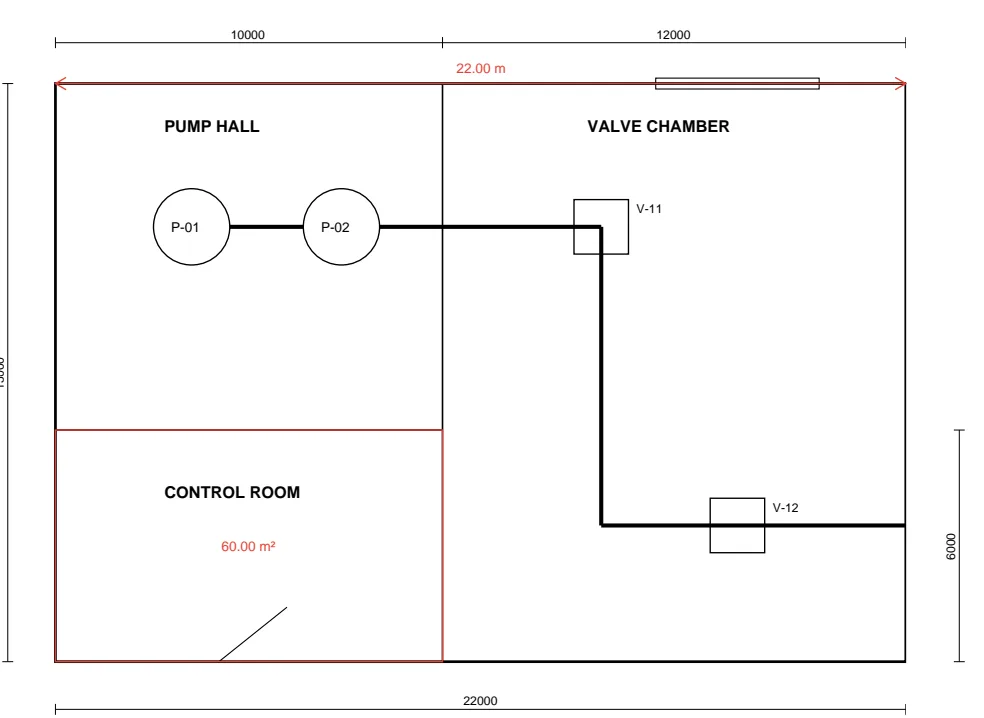
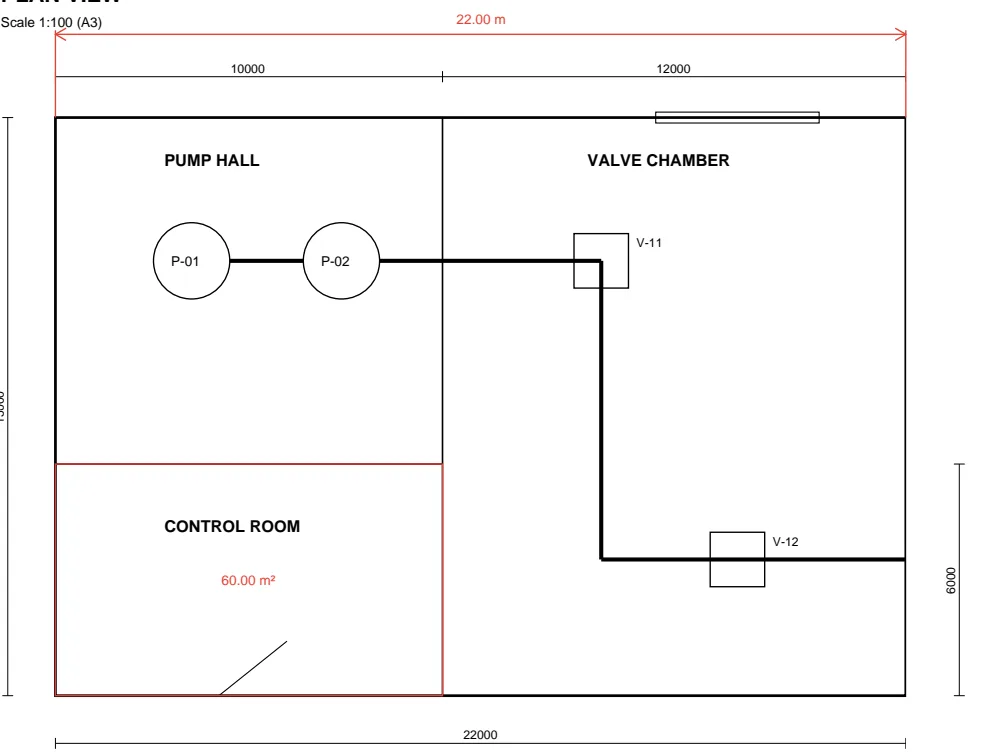
M13-10: Help, pictures, What's new, release notes and owner pack for measuring by clicks (ADR-034 Amendment 3, D-72)
Claude-Session: https://claude.ai/code/session_01JyMu1wAnFExeEa4SG15ywY

diff --git a/e2e/help-shots/shots.spec.ts b/e2e/help-shots/shots.spec.ts
@@ -741,9 +741,66 @@ test('measure-tools-1: the Measure tab', async ({ page }) => {
 test('measure-tools-2: a distance and an area', async ({ page }) => {
   const { top, bottom } = await measuredDrawing(page);
   await shoot(page, 'measure-tools-2', {
-    clip: await pageBox(page, DRAWING, 80, top - 60, 720, bottom - top + 100),
+    clip: await pageBox(page, DRAWING, 80, top - 85, 720, bottom - top + 125),
     pad: 0,
   });
+});
+
+test('measure-tools-3: placing a distance, the dimension line set sideways', async ({ page }) => {
+  await start(page);
+  await open(page);
+  await fitPage(page);
+  const d = await setScale100(page, 'Metres');
+  await d.getByRole('button', { name: 'Apply' }).click();
+  // The loupe off for this picture, so the dimension line shows clearly.
+  const loupe = toolbar(page, 'Measure').getByRole('button', { name: 'Loupe', exact: true });
+  if ((await loupe.getAttribute('aria-pressed')) === 'true') await loupe.click();
+  await toolbar(page, 'Measure').getByRole('button', { name: 'Distance', exact: true }).click();
+  // The plan's top edge (page points from the top-left), snapped at its corners.
+  const mm = 72 / 25.4 / 100;
+  const left = 120;
+  const right = 120 + 22000 * mm;
+  const top = 842 - (260 + 15000 * mm);
+  // The page's geometry ready, so both corners snap.
+  await expect
+    .poll(
+      async () =>
+        Object.values(
+          ((await cap(page, 'annotate', 'snap')) as { pages: Record<string, string> }).pages,
+        ),
+      { timeout: 20_000 },
+    )
+    .toContain('ready');
+  for (const x of [left, right]) {
+    const p = await at(page, DRAWING, x, top);
+    await page.mouse.move(p.x - 10, p.y + 10);
+    await page.mouse.move(p.x, p.y, { steps: 4 });
+    await page.waitForTimeout(200);
+    await page.mouse.click(p.x, p.y);
+  }
+  await expect(page.getByTestId('measure-live')).toHaveText('22.00 m');
+  // Sideways (Alt: no snap), the pointer above the plan.
+  await page.keyboard.down('Alt');
+  const side = await at(page, DRAWING, left + (right - left) * 0.62, top - 60);
+  await page.mouse.move(side.x, side.y, { steps: 8 });
+  await expect(page.getByTestId('measure-leaders').locator('line')).toHaveCount(2);
+  await expect(page.getByTestId('measure-live')).toBeVisible();
+  await page.waitForTimeout(300);
+  await shoot(page, 'measure-tools-3', {
+    clip: await pageBox(page, DRAWING, left - 40, top - 100, right - left + 80, 140),
+    pad: 0,
+    mouseAway: false,
+    callouts: [
+      { n: 1, target: await pageBox(page, DRAWING, left - 3, top - 3, 6, 6), at: 'b', dy: 10 },
+      {
+        n: 2,
+        target: await pageBox(page, DRAWING, right - 120, top - 66, 40, 6),
+        at: 'tr',
+        dy: -14,
+      },
+    ],
+  });
+  await page.keyboard.up('Alt');
 });
 
 test('snapping-1: the Snap options', async ({ page }) => {

diff --git a/e2e/help-shots/scenes.ts b/e2e/help-shots/scenes.ts
@@ -248,13 +248,13 @@ export async function measuredDrawing(page: Page): Promise<{ top: number; bottom
     if (double) await page.mouse.dblclick(s.x, s.y);
     else await page.mouse.click(s.x, s.y);
   }
-  // Distance by clicks (M13-10): the two corners, then the dimension line 30 pt above
-  // the plan (Alt: no snap for that click).
+  // Distance by clicks (M13-10): the two corners, then the dimension line 60 pt above
+  // the plan, clear of the drawing's own dimensions (Alt: no snap for that click).
   await toolbar(page, 'Measure').getByRole('button', { name: 'Distance', exact: true }).click();
   await clickAt(left, top);
   await clickAt(right, top);
   await page.keyboard.down('Alt');
-  await clickAt((left + right) / 2, top - 30);
+  await clickAt((left + right) / 2, top - 60);
   await page.keyboard.up('Alt');
   await escapeTool(page);
   await ribbonTab(page, 'Measure').click();

diff --git a/docs/PROGRESS.md b/docs/PROGRESS.md
@@ -1,11 +1,11 @@
 # Triya PDF — Progress
 
-_Last updated: 2026-11-24 (M13-09: Help for M13 with every picture made again, the loupe's key M, a shortcut sheet that lists every key, What's new and release notes for 1.1.0, Compare on in release builds, the release checks and the owner pack; M13 complete on the agent side; M13-08: the CRS template screens, the export dialog with project templates, four guided set-up steps beside a live sheet preview, the template manager; M13-02·O2: the loupe and snapping for Line, Arrow, Polyline and Callout comments; M13-02·O1: View › Loupe, the loupe in every tool; M13-01·O5: "Try comparing two revisions" on the start screen; M13-05: Thin Lines, every page line 1 device pixel wide on screen only, from a view-only copy in the Render worker; M13-07: the CRS project template engine and the CRS review corpus; M13-04: labelled status bar toggles, Previous / Next View in the status bar, one view history for the window, Distance with open arrows; M13-03: spike S32, Thin Lines route b, a view-only copy kept thin, ADR-034 Amendment 2; M13-02: the Measure loupe and automatic snapping; M13-06: spike S33, CRS project templates with ExcelJS, works with workaround, ADR-034 Amendment 1; M13-01: sample comparisons in the Compare input window; M13 plan approved: final improvements for 1.1.0, tasks M13-01 … M13-09, ADR-034, ARCHITECTURE.md Rev 0.24; M12-ux plan and ADR-033 recorded (tasks M12-24 … M12-27 all merged); M12-26: alignment made easy to find and first-time tips; M12-27: review in a comparison made easier; M12-25: room to work in a comparison; M12-24: the Compare input window made clearer; M12-23: M12 acceptance, M12 complete on the agent side; M12-22: Compare help and release notes; M12-21·O4: drop a tab on a tab; M12-20: the comparison file; M12-21: change register and presets)_
+_Last updated: 2026-11-24 (M13-10: measuring by clicks, Distance as a dimension with leader lines stored as /LL and /LLE, ADR-034 Amendment 3, D-72, ARCHITECTURE.md Rev 0.25; M13-09: Help for M13 with every picture made again, the loupe's key M, a shortcut sheet that lists every key, What's new and release notes for 1.1.0, Compare on in release builds, the release checks and the owner pack; M13 complete on the agent side; M13-08: the CRS template screens, the export dialog with project templates, four guided set-up steps beside a live sheet preview, the template manager; M13-02·O2: the loupe and snapping for Line, Arrow, Polyline and Callout comments; M13-02·O1: View › Loupe, the loupe in every tool; M13-01·O5: "Try comparing two revisions" on the start screen; M13-05: Thin Lines, every page line 1 device pixel wide on screen only, from a view-only copy in the Render worker; M13-07: the CRS project template engine and the CRS review corpus; M13-04: labelled status bar toggles, Previous / Next View in the status bar, one view history for the window, Distance with open arrows; M13-03: spike S32, Thin Lines route b, a view-only copy kept thin, ADR-034 Amendment 2; M13-02: the Measure loupe and automatic snapping; M13-06: spike S33, CRS project templates with ExcelJS, works with workaround, ADR-034 Amendment 1; M13-01: sample comparisons in the Compare input window; M13 plan approved: final improvements for 1.1.0, tasks M13-01 … M13-09, ADR-034, ARCHITECTURE.md Rev 0.24; M12-ux plan and ADR-033 recorded (tasks M12-24 … M12-27 all merged); M12-26: alignment made easy to find and first-time tips; M12-27: review in a comparison made easier; M12-25: room to work in a comparison; M12-24: the Compare input window made clearer; M12-23: M12 acceptance, M12 complete on the agent side; M12-22: Compare help and release notes; M12-21·O4: drop a tab on a tab; M12-20: the comparison file; M12-21: change register and presets)_
 
-**Next:** M13-10 (Distance, Perimeter and Area placed by clicks, the dimension line dragged sideways; owner request 2026-11-24), then the owner pack of [M13 acceptance](acceptance/M13.md) §4 (samples, loupe, Thin Lines,
+**Next:** the owner pack of [M13 acceptance](acceptance/M13.md) §4 (samples, loupe, Thin Lines,
 view history, a real project CRS template opened in Excel), then the owner tags `v1.1.0` and
 approves the deploy ([docs/deploy/release.md](deploy/release.md)). **M13 is complete on the agent
-side** (M13-01 … M13-09 and O1, O2, O5 merged); plan [docs/plan/M13.md](plan/M13.md),
+side** (M13-01 … M13-10 and O1, O2, O5 merged); plan [docs/plan/M13.md](plan/M13.md),
 [ADR-034](adr/034-m13-final-improvements.md), ARCHITECTURE.md Rev 0.24.
 
 **Current milestone:** M12 — PDF comparison (PDF overlay for drawings, text comparison for
@@ -35,6 +35,19 @@ answers Q1–Q7; ARCHITECTURE.md Rev 0.12 after [ADR-024](adr/024-freetext-text-
 interop is in the M6 pack (CHECKLIST §M6 R1–R4). Rev 0 (M0–M4) is complete on the agent side.
 
 ## Done
+
+- **M13-10 — Measuring by clicks; Distance as a dimension (D-72; ADR-034 Amendment 3; plan
+  [M13](plan/M13.md) §8; owner request 2026-11-24).** Distance: click the first point, click the
+  second, move sideways and click to place the dimension line (Enter or a double-click places it
+  where it is, Esc drops it; the old press-and-drag still works). The offset is stored as the
+  standard leader line entries `/LL`, `/LLE` (`model/dimension.ts`); the Render worker draws the
+  dimension line with PDFium's own appearance and adds the leader lines
+  (`workers/render/dimensionAppearance.ts`), and both workers read `/LL` back
+  (`leaderReadback.ts`), so other viewers show the same picture and editing keeps the leaders.
+  Perimeter and Area were already click by click; they and Distance now have status bar hints.
+  Snapping, the loupe, Shift and the open arrows work as before (`measureDistance` joined the
+  vertex tools in `drawModel.ts`). Help Measuring rewritten with a new picture
+  (`measure-tools-3`), What's new, release notes and the owner pack updated.
 
 - **M13-09 — Help, shortcuts, About, What's new and the 1.1.0 release checks (plan
   [M13](plan/M13.md) §7; [acceptance](acceptance/M13.md)).** Five new Help topics: `thin-lines`,

diff --git a/docs/acceptance/M13.md b/docs/acceptance/M13.md
@@ -28,6 +28,7 @@ section 3. Tagging `v1.1.0` and approving the deploy are the owner's (section 4)
 | M13-08    | CRS template screens: export dialog, guided set-up, manager (D-71)         | #193 99566df |
 | M13-02·O2 | The loupe and snapping for Line, Arrow, Polyline and Callout (D-68)        | #194 3883bed |
 | M13-09    | Help, screenshots, shortcuts, About, What's new, release checks (this doc) | this PR      |
+| M13-10    | Measuring by clicks; Distance as a dimension with leader lines (D-72)      | see PR       |
 
 ## 2. What M13-09 changed
 
@@ -85,11 +86,11 @@ reference.
 
 ## 4. Owner pack
 
-**Wait for M13-10** (Shubham, 2026-11-24: Distance, Perimeter and Area placed by clicks, with
-the dimension line dragged sideways): the hand check and the `v1.1.0` tag come after it merges.
-The M13-10 thread adds its line to What's new and the release notes.
+M13-10 (Shubham, 2026-11-24: Distance, Perimeter and Area placed by clicks, with the dimension
+line set sideways) is in; its line is in What's new and the release notes.
 
-Pictures: project files `m13-09/` (the new Help pictures and the shortcut sheet).
+Pictures: project files `m13-09/` (the new Help pictures and the shortcut sheet) and `m13-10/`
+(measuring by clicks).
 
 - [ ] **Samples:** Compare › PDF Overlay → Try a sample → each of the two; then Text Comparison →
       each of the two. The start screen's "Try comparing two revisions" opens the flange sample.
@@ -97,6 +98,12 @@ Pictures: project files `m13-09/` (the new Help pictures and the shortcut sheet)
       the snap point and its kind; snapping turned on by itself and back off after Esc. Press M
       to hide and show it. View › Loupe with Select. File › Settings › Measure: size and
       magnification.
+- [ ] **Measuring by clicks:** Measure › Distance on one of your drawings: click one point,
+      release, click the second, move sideways (the dimension line and its leader lines follow),
+      click to place. Esc while placing drops it; Enter places it where it is. Perimeter and
+      Area: click each point, double-click or Enter (Area also on its first corner). Save, then
+      open the file in another PDF viewer: the dimension line sits where you put it, with its
+      leader lines and arrows.
 - [ ] **Thin Lines:** a dense drawing of yours at 400 %: Ctrl+Alt+5 (Ctrl+5 in the installed app),
       the status bar button and View › Thin Lines. Save, print: the file's own lines.
 - [ ] **View history:** type a page, click a bookmark, switch tabs, then Alt+Left / the status

diff --git a/docs/release-notes/v1.1.0.md b/docs/release-notes/v1.1.0.md
@@ -74,7 +74,12 @@ dragging one document tab onto another and holding it there.
   the point it will snap to and its kind. Press **M** to show or hide it; **View › Loupe** shows
   it with any tool. Size and magnification in File › Settings › Measure.
 - **Snapping turns itself on** when you pick a measuring tool, and goes back when you finish.
-- **Distances end in open arrows**, like dimension lines.
+- **Measure by clicks, as in CAD.** Distance: click the first point, click the second, move
+  the pointer sideways to set the dimension line, and click to place it, with a leader line from
+  each point and open arrows at its ends. Enter places it where it is; Esc drops it. Perimeter
+  and Area: click each point, then double-click or press Enter (an area also closes on its first
+  corner). The dimension line's place is saved as the standard leader line entries of the PDF
+  comment, so other PDF viewers draw it the same way.
 - **Thin Lines** (Ctrl+Alt+5, or Ctrl+5 in the installed app; also in the status bar and View ›
   Page Display) draws every line of the page one pixel wide on screen, at any zoom. Files,
   printing and exports are unchanged.
